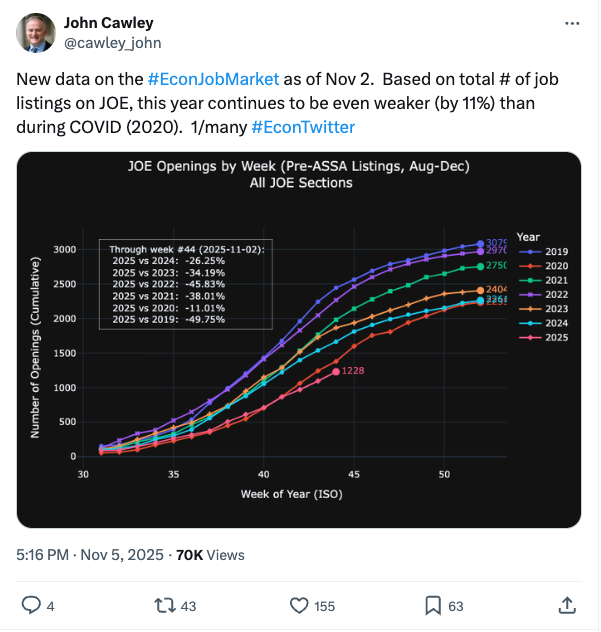
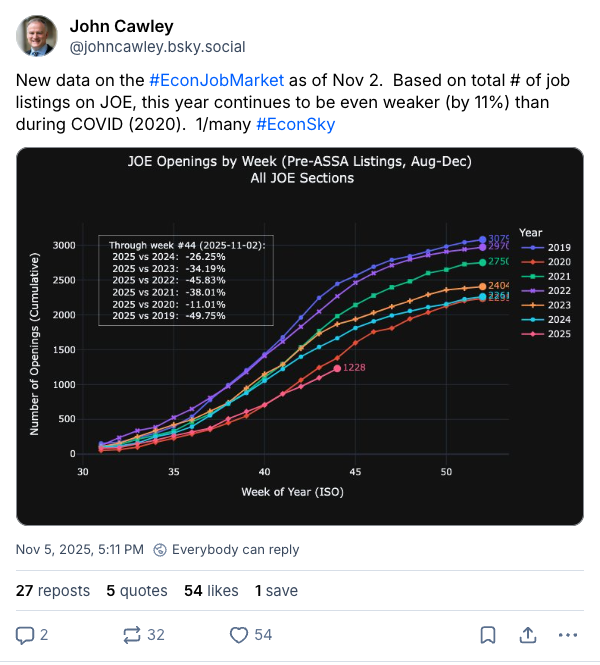
Update Cawley's post reference to Bluesky and replace image

diff --git a/_posts/2025-11-24-joe-market-update-november.md b/_posts/2025-11-24-joe-market-update-november.md
@@ -24,7 +24,7 @@ The numbers are stark. As of week 47 (mid-November), cumulative postings for the
 
 If this trajectory continues, we're on track to finish the year with the lowest total posting count in over a decade. 
 
-This finding is in line with a recent post by [John Cawley on X/Twitter](https://x.com/cawley_john/status/1986196028685754412):
+This finding is in line with a recent post by [John Cawley on Bluesky](https://bsky.app/profile/johncawley.bsky.social/post/3m4w2x5es322c):
 
 
 <figure class="widefigure">
@@ -32,7 +32,7 @@ This finding is in line with a recent post by [John Cawley on X/Twitter](https:/
   <figcaption>John Cawley Nov 5, 2025 post on state of the Job Market</figcaption>
 </figure>
 
-A few comments on this: I'm not sure how Cawley has so many more posts than I do. My numbers come from just the raw counts exported on the [AEA JOE website](https://www.aeaweb.org/joe/listings?issue=2025-02). All of the trends seem very similar, but he has far larger numbers. I can't read through John's thread because I no longer have an X/Twitter account, so I can't speak to the differences. Maybe let me know on Bsky if you think you have an idea? {% include sidenote.html number="0" text="By the way, I think it's bad for us to have any real communication on X/Twitter if it requires having an account. I had a really tough time even finding this post because X doesn't allow you to see most recent posts for John when I go to his account page without logging in. " %}
+A few comments on this: I'm not sure how Cawley has so many more posts than I do. My numbers come from just the raw counts exported on the [AEA JOE website](https://www.aeaweb.org/joe/listings?issue=2025-02). All of the trends seem very similar, but he has far larger numbers. Maybe let me know on Bsky if you think you have an idea? 
 
 ## A Silver Lining: Finance Jobs Show Resilience
 
